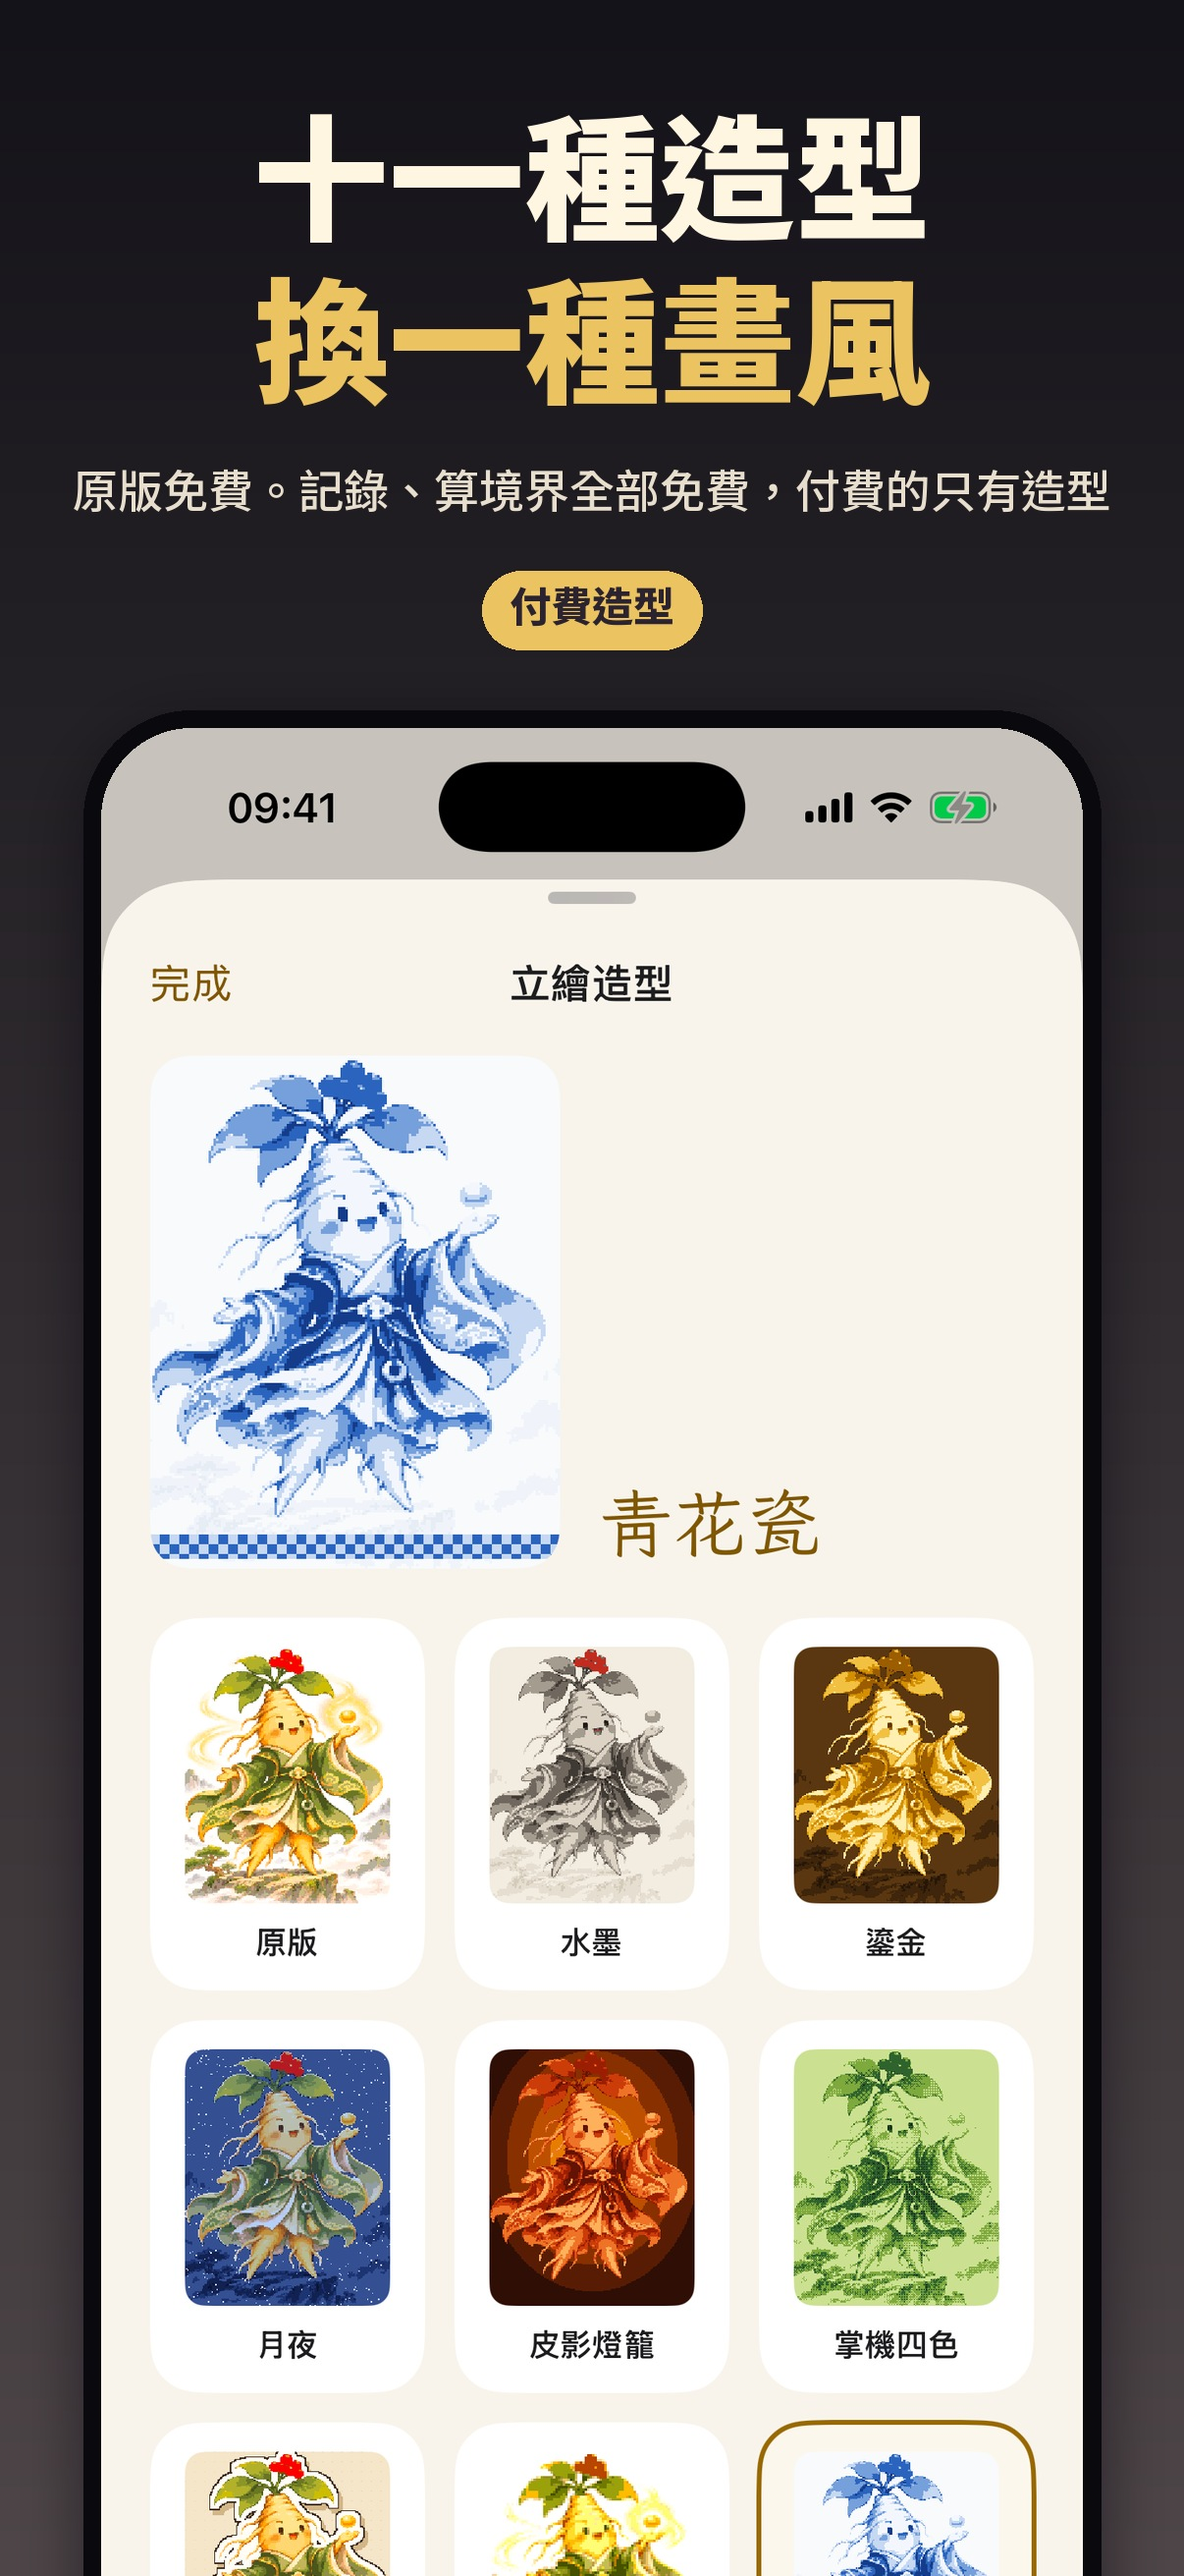
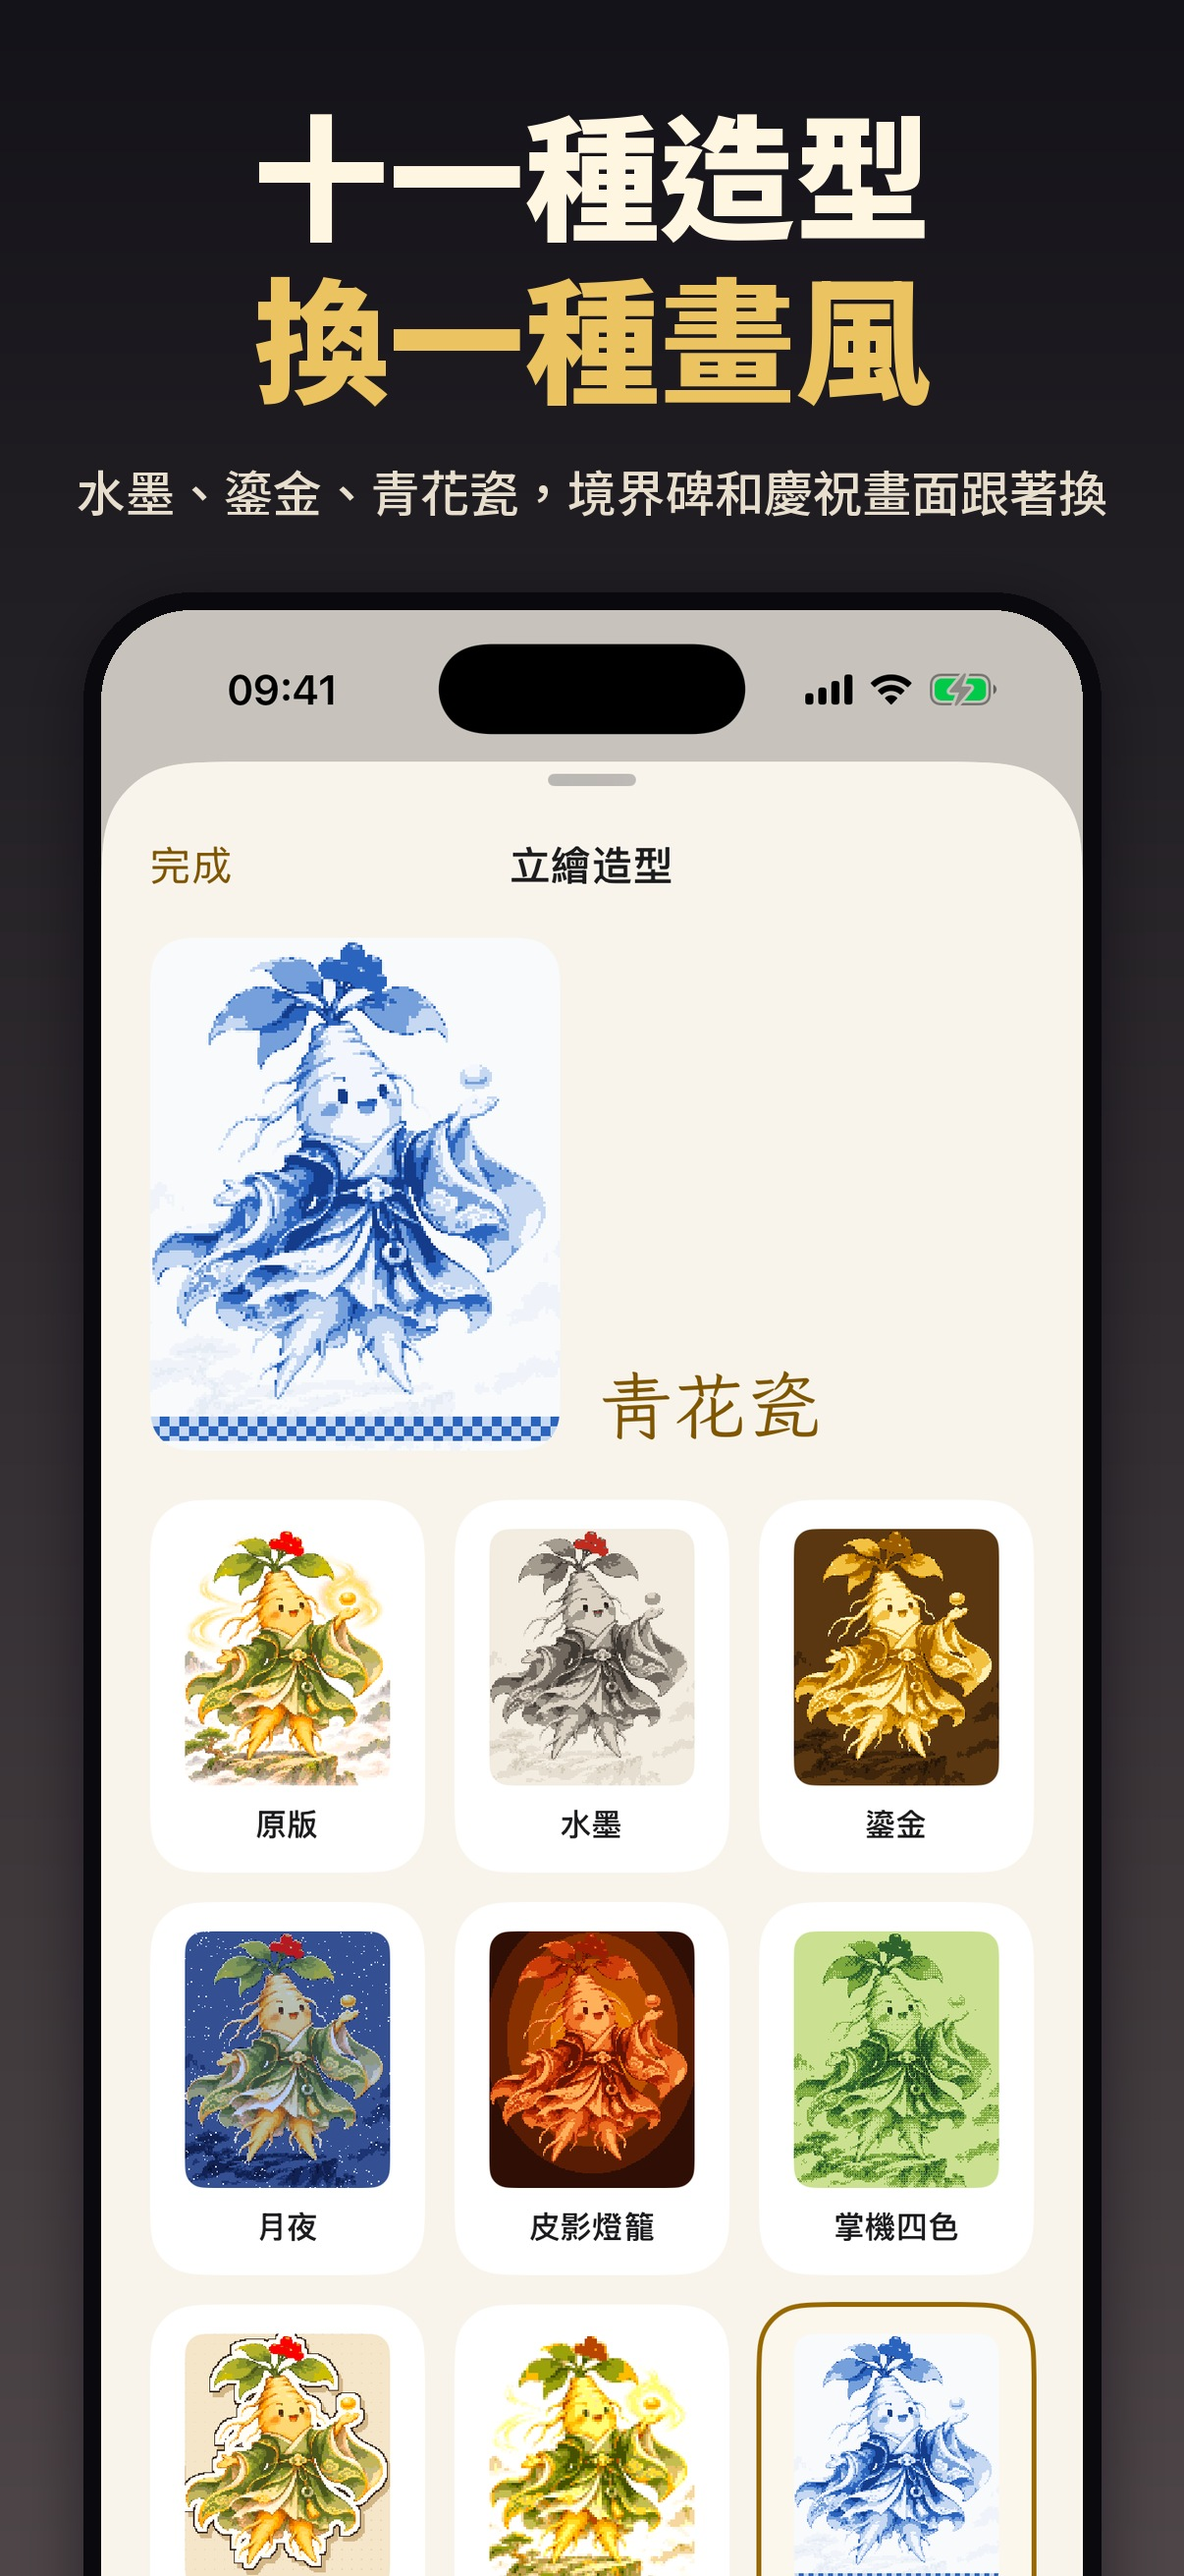
[上架] 第 8 張商店截圖拿掉免費與付費字樣（2.3.7 退件）

Changed region(s): [[0.0614, 0.1854, 0.9511, 1.0], [0.5829, 0.5252, 0.8897, 1.0]]

diff --git a/.vibe/tools/store_shots.py b/.vibe/tools/store_shots.py
@@ -42,8 +42,9 @@ SHOTS = [
     dict(name="05-log", raw="6-log-lift.png", title=["練完記四格", "不用填一堆"], sub="功法、重量、次數、組數，記完就算等級"),
     dict(name="06-moves", raw="7-moves.png", title=["十二門功法", "各有等級"], sub="深蹲叫坐馬樁、硬舉叫拔山式，從未入門練到化境"),
     dict(name="07-data", raw="8-data.png", title=["不用註冊", "資料只在手機"], sub="換手機用匯出檔帶走，量測從健康 app 重建"),
-    dict(name="08-styles", raw="10-styles.png", title=["十一種造型", "換一種畫風"], sub="原版免費。記錄、算境界全部免費，付費的只有造型",
-         badge=PAID),
+    dict(name="08-styles", raw="10-styles.png", title=["十一種造型", "換一種畫風"], sub="水墨、鎏金、青花瓷，境界碑和慶祝畫面跟著換"),
+    # 2026-11-27 Apple 以 2.3.7 退件：截圖不能寫價格，「免費」「付費」也算。原本副標「原版免費。記錄、算境界全部免費，
+    # 付費的只有造型」加一顆「付費造型」標，兩個都拿掉。要講免費請寫在描述裡（Apple 退件信建議的）。
 ]
 
 
